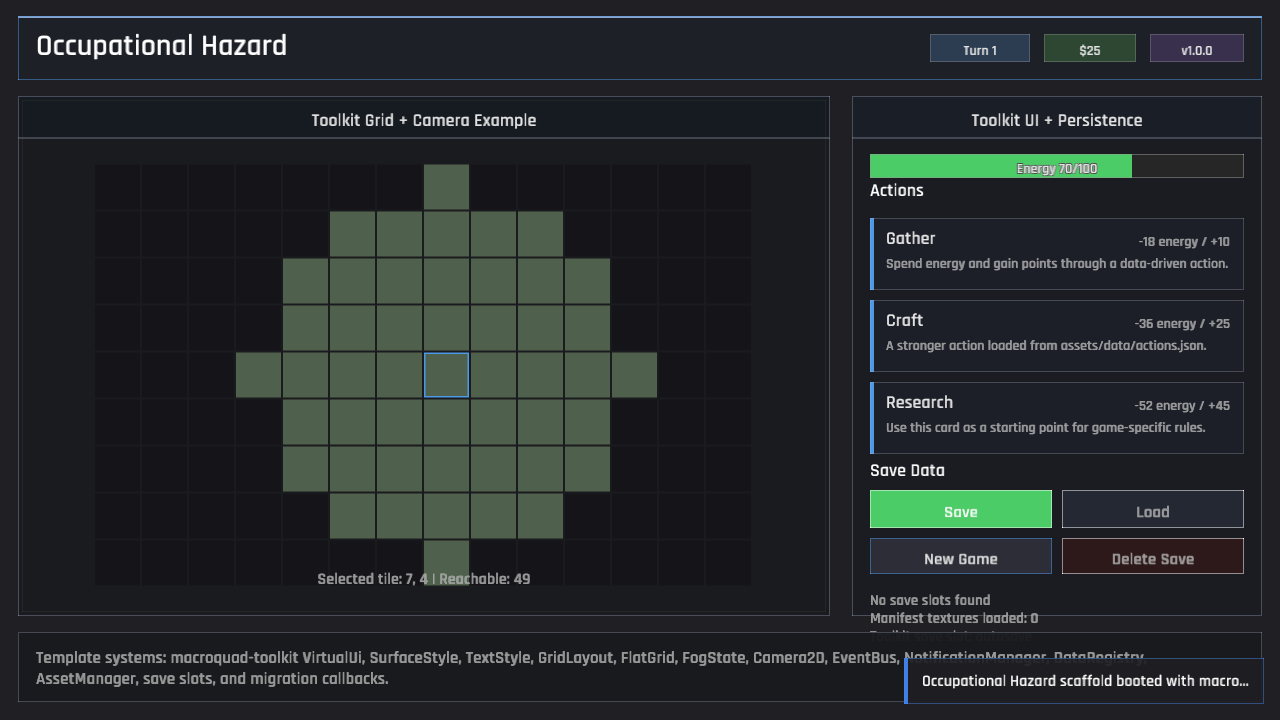
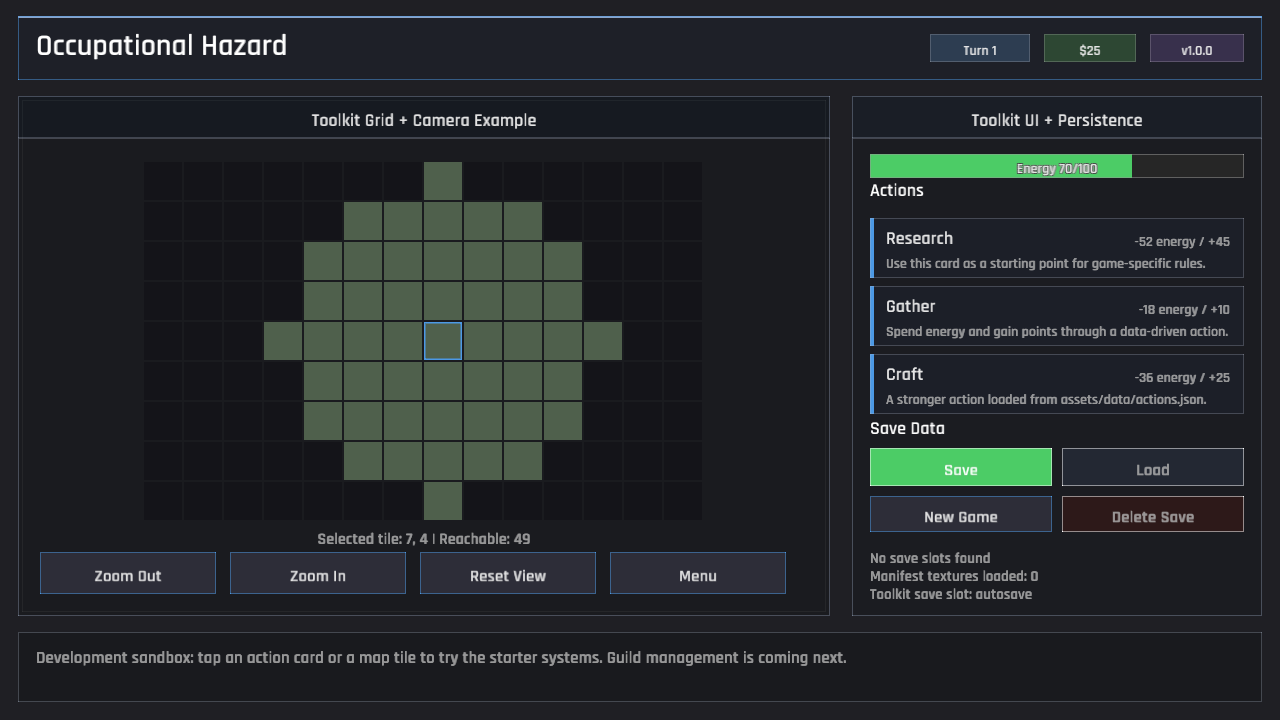
The guild welcomes visitors at its front door (template title and navigation)
Add a title screen with sandbox entry, resume, and saved-session loading. Pause the sandbox at the menu and make Escape return there instead of resetting progress. Add visible camera controls, contain zoomed tiles, and fit the save panel within its surface.

Capture isolated title and sandbox scenes and use the title for the catalog thumbnail. Five tests, formatting, Clippy, captures, and Windows/WebGL preview publishing passed. Optional Project Roost tracking remains unavailable.

diff --git a/src/game.rs b/src/game.rs
@@ -17,6 +17,8 @@ use macroquad_toolkit::persistence::{
 use macroquad_toolkit::prelude::{begin_virtual_ui_frame, dark, end_virtual_ui_frame, InputState};
 
 pub struct Game {
+    in_menu: bool,
+    session_started: bool,
     data: GameData,
     session: GameSession,
     assets: AssetManager,
@@ -36,13 +38,8 @@ impl Game {
         let mut assets = AssetManager::new();
         let placeholder = Image::gen_image_color(16, 16, Color::new(0.75, 0.2, 0.8, 1.0));
         assets.set_placeholder_texture_direct(Texture2D::from_image(&placeholder));
-        let loaded_assets = assets.load_texture_configs(&data.texture_manifest).await;
-
-        let mut notifications = NotificationManager::new();
-        notifications.info(format!(
-            "Occupational Hazard scaffold booted with macroquad-toolkit systems; {} manifest textures loaded",
-            loaded_assets
-        ));
+        assets.load_texture_configs(&data.texture_manifest).await;
+        let notifications = NotificationManager::new();
 
         let session = GameSession::new(&data.config);
         let camera = Camera2D::with_config(
@@ -58,6 +55,8 @@ impl Game {
         );
 
         let mut game = Self {
+            in_menu: true,
+            session_started: false,
             data,
             session,
             assets,
@@ -73,11 +72,18 @@ impl Game {
 
     pub fn update(&mut self, dt: f32) {
         self.notifications.update(dt);
+        let actions: Vec<UiAction> = self.events.drain().collect();
+        for action in actions {
+            self.apply_action(action);
+        }
+        if self.in_menu {
+            return;
+        }
         self.session.update_energy(&self.data.config, dt);
 
         let input = InputState::capture();
         if input.escape_pressed {
-            self.events.push(UiAction::NewGame);
+            self.events.push(UiAction::OpenMenu);
         }
         if input.space_pressed {
             if let Some((id, _)) = self.data.actions.iter().next() {
@@ -106,18 +112,22 @@ impl Game {
         clear_background(dark::BACKGROUND);
 
         let virtual_ui = begin_virtual_ui_frame(ui::LOGICAL_WIDTH, ui::LOGICAL_HEIGHT);
-        let ctx = UiContext {
-            data: &self.data,
-            session: &self.session,
-            save_exists: self.save_exists,
-            save_slots: &self.save_slots,
-            loaded_assets: self.assets.len(),
-            camera_target: self.camera.target,
-            camera_zoom: self.camera.zoom,
-            ui: &virtual_ui,
-        };
+        let actions = if self.in_menu {
+            ui::draw_title(&virtual_ui, self.save_exists, self.session_started)
+        } else {
+            let ctx = UiContext {
+                data: &self.data,
+                session: &self.session,
+                save_exists: self.save_exists,
+                save_slots: &self.save_slots,
+                loaded_assets: self.assets.len(),
+                camera_target: self.camera.target,
+                camera_zoom: self.camera.zoom,
+                ui: &virtual_ui,
+            };
 
-        let actions = ui::draw_game_ui(ctx);
+            ui::draw_game_ui(ctx)
+        };
         end_virtual_ui_frame();
 
         for action in actions {
@@ -133,7 +143,19 @@ impl Game {
 
     fn apply_action(&mut self, action: UiAction) {
         match action {
+            UiAction::OpenMenu => self.in_menu = true,
+            UiAction::Resume => self.in_menu = false,
+            UiAction::ZoomIn => self.camera.zoom = (self.camera.zoom + 0.1).min(1.75),
+            UiAction::ZoomOut => self.camera.zoom = (self.camera.zoom - 0.1).max(0.75),
+            UiAction::ResetCamera => {
+                self.camera.target = Vec2::ZERO;
+                self.camera.zoom = 1.0;
+            }
             UiAction::NewGame => {
+                self.in_menu = false;
+                self.session_started = true;
+                self.camera.target = Vec2::ZERO;
+                self.camera.zoom = 1.0;
                 self.session = GameSession::new(&self.data.config);
                 self.notifications
                     .info("Started a fresh development session");
@@ -191,6 +213,8 @@ impl Game {
 
         match loaded {
             Ok(save) => {
+                self.in_menu = false;
+                self.session_started = true;
                 self.session = GameSession::from_save(save);
                 self.notifications
                     .success("Loaded save with migration support");
@@ -214,5 +238,20 @@ impl Game {
     fn refresh_save_state(&mut self) {
         self.save_exists = slot_exists(&self.data.config.game_name, &self.data.config.save_slot);
         self.save_slots = get_save_slots(&self.data.config.game_name);
+    }
+
+    pub fn begin_capture_scene(&mut self, scene: &str) {
+        self.session = GameSession::new(&self.data.config);
+        self.camera.target = Vec2::ZERO;
+        self.camera.zoom = 1.0;
+        self.notifications = NotificationManager::new();
+        self.save_exists = false;
+        self.save_slots.clear();
+        self.in_menu = match scene {
+            "title" => true,
+            "gameplay" => false,
+            other => panic!("Unknown capture scene: {other}"),
+        };
+        self.session_started = !self.in_menu;
     }
 }

diff --git a/src/ui.rs b/src/ui.rs
@@ -8,6 +8,9 @@ use macroquad_toolkit::prelude::*;
 use macroquad_toolkit::ui::draw_ui_text_ex;
 use macroquad_toolkit::ui::{RectExt, VirtualUi};
 
+mod title;
+pub use title::draw_title;
+
 pub const LOGICAL_WIDTH: f32 = 1280.0;
 pub const LOGICAL_HEIGHT: f32 = 720.0;
 
@@ -17,6 +20,11 @@ pub enum UiAction {
     Save,
     Load,
     DeleteSave,
+    OpenMenu,
+    Resume,
+    ZoomIn,
+    ZoomOut,
+    ResetCamera,
     RunAction(String),
     SelectTile(TilePos),
 }
@@ -45,6 +53,25 @@ pub fn draw_game_ui(ctx: UiContext<'_>) -> Vec<UiAction> {
     }
     draw_control_panel(&ctx, mouse, &mut actions);
     draw_footer();
+    for (index, (label, action)) in [
+        ("Zoom Out", UiAction::ZoomOut),
+        ("Zoom In", UiAction::ZoomIn),
+        ("Reset View", UiAction::ResetCamera),
+        ("Menu", UiAction::OpenMenu),
+    ]
+    .into_iter()
+    .enumerate()
+    {
+        if virtual_button(
+            Rect::new(40.0 + index as f32 * 190.0, 552.0, 176.0, 42.0),
+            label,
+            true,
+            ButtonTone::Secondary,
+            mouse,
+        ) {
+            actions.push(action);
+        }
+    }
 
     actions
 }
@@ -102,7 +129,7 @@ fn draw_world_panel(ctx: &UiContext<'_>, mouse: Vec2) {
 
     if grid_rect.contains_point(mouse) {
         draw_tooltip(
-            "Arrow keys move the selected tile. Right mouse drag and +/- adjust the toolkit camera state.",
+            "Tap a tile to select it. Use Zoom In, Zoom Out, or Reset View to adjust the map.",
             mouse,
         );
     }
@@ -118,6 +145,14 @@ fn draw_grid_demo(ctx: &UiContext<'_>, rect: Rect) {
         if !rect.overlaps(&tile_rect) {
             continue;
         }
+        let left = tile_rect.x.max(rect.x);
+        let top = tile_rect.y.max(rect.y);
+        let tile_rect = Rect::new(
+            left,
+            top,
+            tile_rect.right().min(rect.right()) - left,
+            tile_rect.bottom().min(rect.bottom()) - top,
+        );
 
         let base = match fog {
             FogState::Hidden => Color::new(0.08, 0.08, 0.10, 1.0),
@@ -143,7 +178,7 @@ fn draw_grid_demo(ctx: &UiContext<'_>, rect: Rect) {
         }
     }
 
-    let footer = Rect::new(rect.x, rect.bottom() - 28.0, rect.w, 28.0);
+    let footer = Rect::new(rect.x, rect.bottom(), rect.w, 28.0);
     draw_text_centered_in_box(
         &format!(
             "Selected tile: {}, {} | Reachable: {}",
@@ -196,7 +231,7 @@ fn draw_control_panel(ctx: &UiContext<'_>, mouse: Vec2, actions: &mut Vec<UiActi
     y += 12.0;
 
     let action_count = ctx.data.actions.len();
-    let layout = GridLayout::new(content.x, y + 10.0, content.w, 10.0, 1, 72.0);
+    let layout = GridLayout::new(content.x, y + 10.0, content.w, 8.0, 1, 60.0);
     for (index, (_, action)) in ctx.data.actions.iter().enumerate() {
         let (x, card_y, w, h) = layout.get_item_rect(index, 0.0);
         let card_rect = Rect::new(x, card_y, w, h);
@@ -369,7 +404,7 @@ fn draw_footer() {
             .with_border(1.0, Color::new(0.38, 0.45, 0.58, 0.45)),
     );
     draw_text_block(
-        "Template systems: macroquad-toolkit VirtualUi, SurfaceStyle, TextStyle, GridLayout, FlatGrid, FogState, Camera2D, EventBus, NotificationManager, DataRegistry, AssetManager, save slots, and migration callbacks.",
+        "Development sandbox: tap an action card or a map tile to try the starter systems. Guild management is coming next.",
         rect.x + 18.0,
         rect.y + 14.0,
         rect.w - 36.0,
@@ -413,7 +448,7 @@ fn world_panel_rect() -> Rect {
 
 fn world_grid_rect() -> Rect {
     let rect = world_panel_rect();
-    Rect::new(rect.x + 24.0, rect.y + 66.0, rect.w - 48.0, rect.h - 92.0)
+    Rect::new(rect.x + 24.0, rect.y + 66.0, rect.w - 48.0, rect.h - 160.0)
 }
 
 #[derive(Debug, Clone, Copy)]

diff --git a/src/ui/title.rs b/src/ui/title.rs
@@ -1,0 +1,71 @@
+//! Title screen for the development build.
+
+use super::*;
+
+pub fn draw_title(ui: &VirtualUi, save_exists: bool, session_started: bool) -> Vec<UiAction> {
+    let mut actions = Vec::new();
+    let mouse = ui.mouse_position();
+    let gold = Color::new(0.78, 0.64, 0.38, 1.0);
+    draw_surface(
+        Rect::new(100.0, 64.0, 1080.0, 592.0),
+        &SurfaceStyle::new(Color::new(0.09, 0.105, 0.11, 1.0))
+            .with_border(2.0, gold)
+            .with_inner_border(10.0, 1.0, Color::new(0.38, 0.34, 0.25, 1.0)),
+    );
+    for (text, y, size, color) in [
+        ("ADVENTURERS' GUILD", 112.0, 20.0, gold),
+        ("Occupational Hazard", 166.0, 54.0, dark::TEXT_BRIGHT),
+        (
+            "Every contract is someone's future.",
+            238.0,
+            24.0,
+            dark::TEXT,
+        ),
+        ("DEVELOPMENT BUILD", 308.0, 17.0, gold),
+        (
+            "Explore the starter systems while the guild takes shape.",
+            343.0,
+            19.0,
+            dark::TEXT_DIM,
+        ),
+    ] {
+        draw_text_centered_in_box(text, 140.0, y, 1000.0, 58.0, size, color);
+    }
+    let entries = [
+        (
+            if session_started {
+                "Resume Sandbox"
+            } else {
+                "Open Sandbox"
+            },
+            if session_started {
+                UiAction::Resume
+            } else {
+                UiAction::NewGame
+            },
+            true,
+        ),
+        ("Load Saved Sandbox", UiAction::Load, save_exists),
+    ];
+    for (index, (label, action, enabled)) in entries.into_iter().enumerate() {
+        if virtual_button(
+            Rect::new(430.0, 425.0 + index as f32 * 66.0, 420.0, 52.0),
+            label,
+            enabled,
+            ButtonTone::Secondary,
+            mouse,
+        ) {
+            actions.push(action);
+        }
+    }
+    draw_text_centered_in_box(
+        "Guild management gameplay is not implemented yet.",
+        140.0,
+        576.0,
+        1000.0,
+        36.0,
+        17.0,
+        dark::TEXT_DIM,
+    );
+    actions
+}

diff --git a/src/main.rs b/src/main.rs
@@ -23,12 +23,10 @@ fn window_conf() -> Conf {
 async fn main() {
     let mut game = Game::new().await;
 
-    // Screenshot harness: when OCCUPATIONAL_HAZARD_CAPTURE_PATH is set, render
-    // deterministic frames, write a PNG, and exit. This is a minimal starter
-    // template with a single boot state, so the capture just photographs
-    // whatever the boot flow lands on.
+    // The capture manifest selects deterministic title and gameplay scenes.
     if let Some(configs) = capture::CaptureConfig::all_from_env("OCCUPATIONAL_HAZARD") {
         for config in configs {
+            game.begin_capture_scene(&config.scene);
             capture::run_capture_once(&config, |dt| {
                 game.update(dt);
                 game.draw();

diff --git a/docs/verification/README.md b/docs/verification/README.md
@@ -1,8 +1,9 @@
-# Initial scaffold verification
+# Scaffold verification
 
 - Five starter tests passed with `cargo test -p occupational_hazard`.
 - Formatting and Clippy with warnings denied passed.
-- Native screenshot capture succeeded; `ui_gameplay.png` shows the branded template scaffold.
-- `catalog_thumbnail.png` is a temporary copy of that capture until a title screen exists.
-- `gdd.md` SHA-256 matches the supplied attachment.
-- The no-argument `publish.ps1` built and packaged Windows and WebGL and copied the preview files successfully. The process returned exit code 1; its output reported unavailable Project Roost tracking at localhost:80. No production or FTP publishing was performed.
+- Title and gameplay capture scenes rendered successfully and were visually inspected.
+- `catalog_thumbnail.png` uses the title screen capture.
+- The supplied `gdd.md` remains unchanged.
+- The no-argument `publish.ps1` built and packaged Windows and WebGL, deployed the local preview, and returned exit code 0. Project Roost tracking still warns that localhost:80 is unavailable.
+- Captures verify appearance; automated input interaction coverage has not been added.

diff --git a/README.md b/README.md
@@ -42,3 +42,5 @@ Read `AGENTS.md`, `CODE_STANDARDS.md`, `MACROQUAD_TOOLKIT.md`, and `GAME_DEVELOP
 Replace sample grid/actions with a reception desk, persistent roster, contracts, party assignment, and a deterministic day/expedition loop. Then add injuries, rewards, promotions, quotas, recruitment, and save/load for that state, following the GDD prototype scope.
 
 The first design question is: **Is deciding who to send on a quest interesting?**
+
+The title screen opens or loads the sandbox. Menu pauses the session, and Resume Sandbox returns to it. The map has visible zoom/reset controls. Screenshot capture produces both title and gameplay scenes; the title capture supplies the catalog thumbnail.
